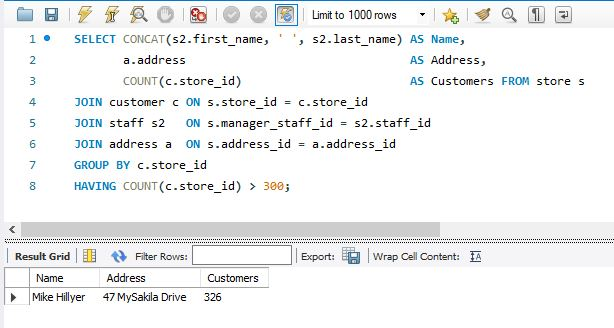
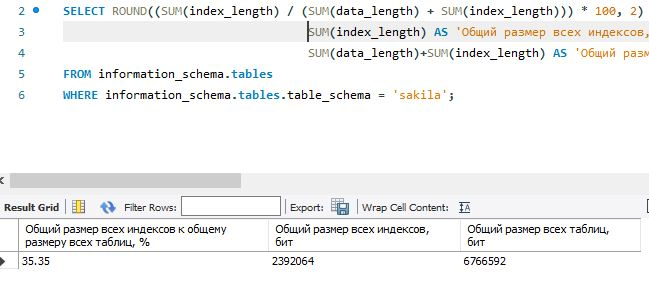
Индексы

diff --git a/README.md b/README.md
@@ -1,48 +1,72 @@
-# Домашнее задание к занятию "SQL. Часть 2" - Сторожев Алексей
+# Домашнее задание к занятию "Индексы" - Сторожев Алексей
 
 # Задание 1
-Одним запросом получите информацию о магазине, в котором обслуживается более 300 покупателей, и выведите в результат следующую информацию:
-
-- фамилия и имя сотрудника из этого магазина;
-- город нахождения магазина;
-- количество пользователей, закреплённых в этом магазине;
+Напишите запрос к учебной базе данных, который вернёт процентное отношение общего размера всех индексов к общему размеру всех таблиц.
 
 # Решение
 ``` sql
-SELECT CONCAT(s2.first_name, ' ', s2.last_name) AS Name, 
-       a.address                                AS Address, 
-       COUNT(c.store_id)                        AS Customers FROM store s 
-JOIN customer c ON s.store_id = c.store_id 
-JOIN staff s2   ON s.manager_staff_id = s2.staff_id 
-JOIN address a  ON s.address_id = a.address_id 
-GROUP BY c.store_id 
-HAVING COUNT(c.store_id) > 300;
+SELECT ROUND((SUM(index_length) / (SUM(data_length) + SUM(index_length))) * 100, 2) AS 'Размер индексов к общему размеру таблиц, %', 
+                                   SUM(index_length) AS 'Общий размер всех индексов, бит', 
+                                   SUM(data_length)+SUM(index_length) AS 'Общий размер всех таблиц, бит'
+FROM information_schema.tables
+WHERE information_schema.tables.table_schema = 'sakila';
 ```
 
 ![alt text](1.JPG)
 
 # Задание 2
-Получите количество фильмов, продолжительность которых больше средней продолжительности всех фильмов.
+Выполните explain analyze следующего запроса:
+``` sql
+select distinct concat(c.last_name, ' ', c.first_name), sum(p.amount) over (partition by c.customer_id, f.title)
+from payment p, rental r, customer c, inventory i, film f
+where date(p.payment_date) = '2005-07-30' 
+  and p.payment_date = r.rental_date 
+  and r.customer_id = c.customer_id 
+  and i.inventory_id = r.inventory_id
+```
+перечислите узкие места;
+оптимизируйте запрос: внесите корректировки по использованию операторов, при необходимости добавьте индексы.
 
 # Решение
-``` sql
-SELECT (SELECT  AVG(`length`) from film) AS Average, 
-       (SELECT COUNT(1) from film)       AS 'All films', 
-       COUNT(1)                          AS 'Long Films' FROM film  WHERE `length` > (SELECT AVG(`length`) from film) ;
+Результат запроса с анализом.
+```sql
+EXPLAIN ANALYZE
+select distinct concat(c.last_name, ' ', c.first_name), sum(p.amount) over (partition by c.customer_id, f.title)
+from payment p, rental r, customer c, inventory i, film f
+where date(p.payment_date) = '2005-07-30' and p.payment_date = r.rental_date and r.customer_id = c.customer_id and i.inventory_id = r.inventory_id
 ```
-
 ![alt text](2.JPG)
 
-# Задание 3
-Получите информацию, за какой месяц была получена наибольшая сумма платежей, и добавьте информацию по количеству аренд за этот месяц.
+По выводу команды обнаружены следующие узкие места:
 
-# Решение
-``` sql
-SELECT DATE_FORMAT(payment_date, '%Y-%m') AS YearMonth,
-       COUNT(payment_id)   As Payments, 
-       SUM(amount)         AS Amount FROM payment
-GROUP BY DATE_FORMAT(payment_date, '%Y-%m')
-ORDER BY Payments  DESC LIMIT 1 ;
-```
-
+Дублирующие данные (Temporary table with deduplication). Была создана временная таблица с удалёнными дублирующими данными. На что было потрачено очень много времени (actual time=30376..30376).
+Отсутствие группировки. Использованы оконные функции (Window aggregate with buffering) вместо группировки. Затрачено времени (actual time=13760..29069). Если использовать группировку, то мы получим уменьшение количества строк и соответственно уменьшение времени обработки.
+Сортировка (Sort) по двум полям c.customer_id, f.title. Затрачено времени (actual time=13760..14133).
 ![alt text](3.JPG)
+
+Проведена оптимизация:
+
+удалена сортировка,
+удалена таблица film,
+удалена таблица inventory,
+добавлена группировка.
+Результат оптимизированного запроса.
+```sql
+select distinct concat(c.last_name, ' ', c.first_name), sum(p.amount)
+from payment p, rental r, customer c
+where date(p.payment_date) = '2005-07-30' and p.payment_date = r.rental_date and r.customer_id = c.customer_id
+GROUP BY concat(c.last_name, ' ', c.first_name);
+```
+![alt text](4.JPG)
+
+Реультат запроса с анализом.
+``sql
+EXPLAIN ANALYZE
+select distinct concat(c.last_name, ' ', c.first_name), sum(p.amount)
+from payment p, rental r, customer c
+where date(p.payment_date) = '2005-07-30' and p.payment_date = r.rental_date and r.customer_id = c.customer_id
+GROUP BY concat(c.last_name, ' ', c.first_name);
+```
+![alt text](5.JPG)
+
+![alt text](5.JPG)
